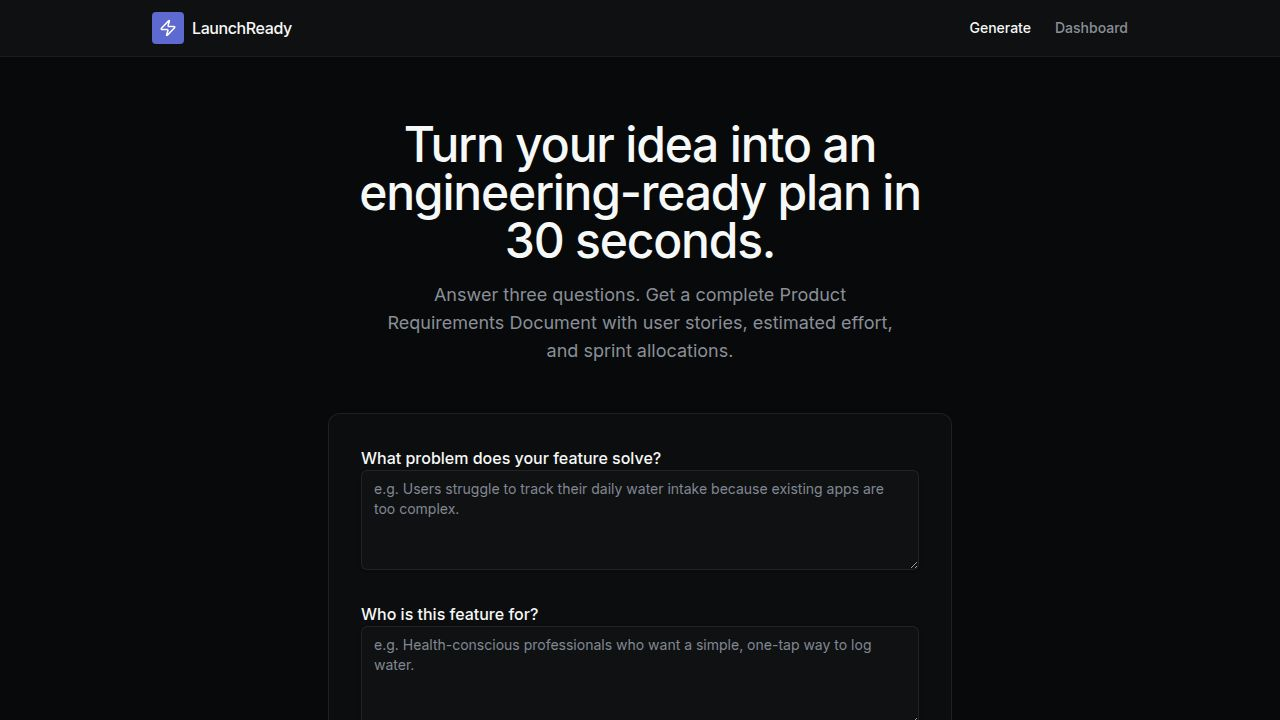
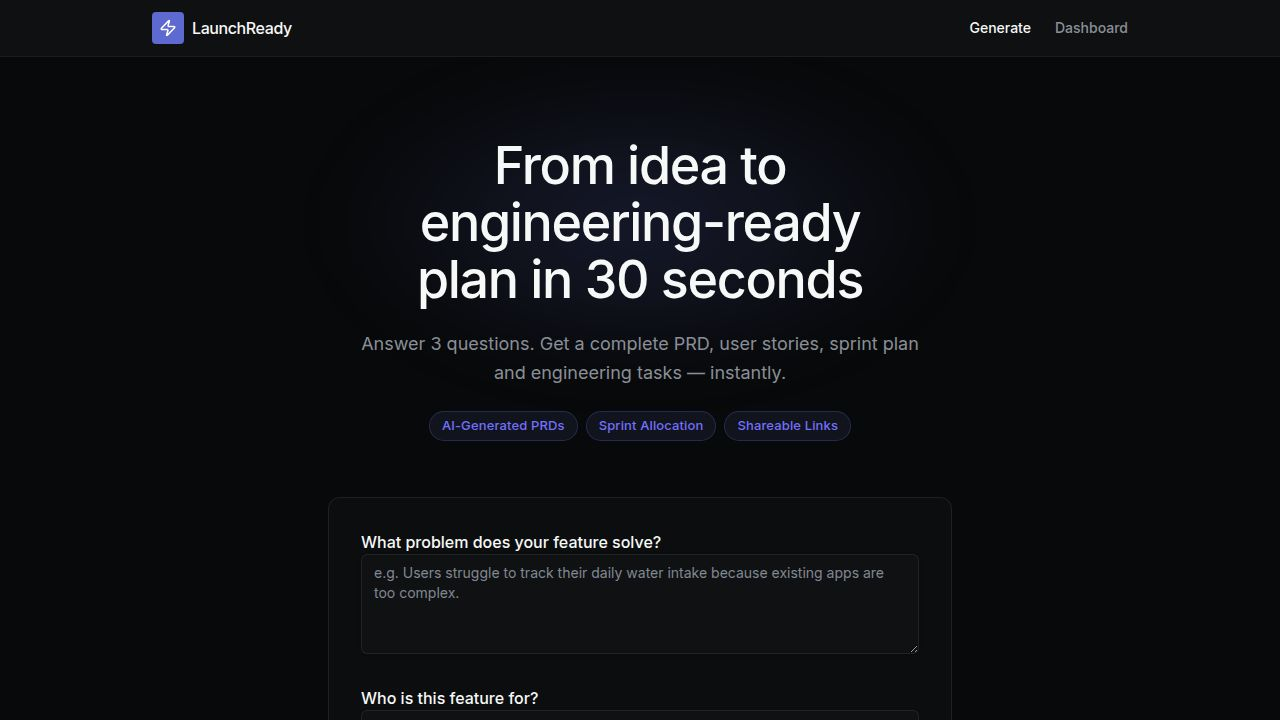
Add a user stories section to the PRD output page
Adds a new "User Stories" section to the PRD display component (`prd-content-display.tsx`), featuring collapsible story cards with IDs, titles, acceptance criteria checklists, and priority badges.

Replit-Commit-Author: Agent
Replit-Commit-Session-Id: 0954cd59-7536-4858-a228-b506f45e49d0
Replit-Commit-Checkpoint-Type: full_checkpoint
Replit-Commit-Event-Id: 13c76872-4d4e-406d-8cc6-f20ce23c8687
Replit-Commit-Screenshot-Url: https://storage.googleapis.com/screenshot-production-us-central1/3521b236-8601-42d6-86fa-be49e3823097/0954cd59-7536-4858-a228-b506f45e49d0/JQFTTOy
Replit-Helium-Checkpoint-Created: true

Changed region(s): [[0.2812, 0.1528, 0.7188, 0.55], [0.2812, 0.5806, 0.6875, 0.9778]]

diff --git a/artifacts/launchready/src/components/prd-content-display.tsx b/artifacts/launchready/src/components/prd-content-display.tsx
@@ -88,6 +88,84 @@ export function PrdContentDisplay({ prd, isShared = false, onUpdateTaskStatus }:
         </Card>
       </div>
 
+      <div className="space-y-4">
+        <h2 className="text-2xl font-medium text-[var(--text-primary)]">User Stories</h2>
+        <div className="space-y-2">
+          {content.userStories.map((story, i) => (
+            <Collapsible key={story.id} defaultOpen={false}>
+              <CollapsibleTrigger className="w-full flex items-center justify-between px-4 py-3 rounded-lg border border-[var(--border-default)] bg-[rgba(255,255,255,0.01)] hover:bg-[rgba(255,255,255,0.025)] transition-colors text-left [&[data-state=open]]:rounded-b-none [&[data-state=open]]:border-b-0 [&[data-state=open]>div>svg]:rotate-90">
+                <div className="flex items-center gap-3 min-w-0">
+                  <ChevronRight className="w-4 h-4 text-[var(--text-subtle)] shrink-0 transition-transform duration-200" />
+                  <span
+                    style={{
+                      fontSize: "0.7rem",
+                      fontFamily: "ui-monospace, SF Mono, Menlo, monospace",
+                      letterSpacing: "0.05em",
+                      fontWeight: 500,
+                      color: "var(--text-subtle)",
+                      textTransform: "uppercase",
+                      flexShrink: 0,
+                    }}
+                  >
+                    US-{i + 1}
+                  </span>
+                  <span className="text-sm font-medium text-[var(--text-primary)] truncate">{story.title}</span>
+                </div>
+                <Badge variant="outline" className={`border-0 shrink-0 ml-3 ${getPriorityColor(story.priority)}`}>
+                  {story.priority}
+                </Badge>
+              </CollapsibleTrigger>
+              <CollapsibleContent className="border border-t-0 border-[var(--border-default)] rounded-b-lg bg-[rgba(255,255,255,0.01)] overflow-hidden">
+                <div className="px-5 py-4 space-y-4">
+                  <p className="text-sm leading-relaxed" style={{ color: "var(--text-secondary)" }}>
+                    As a <span style={{ color: "var(--text-primary)", fontWeight: 500 }}>{story.asA}</span>,
+                    {" "}I want <span style={{ color: "var(--text-primary)", fontWeight: 500 }}>{story.iWant}</span>,
+                    {" "}so that <span style={{ color: "var(--text-primary)", fontWeight: 500 }}>{story.soThat}</span>.
+                  </p>
+                  {story.acceptanceCriteria && story.acceptanceCriteria.length > 0 && (
+                    <div>
+                      <p
+                        style={{
+                          fontSize: "0.7rem",
+                          textTransform: "uppercase",
+                          letterSpacing: "0.07em",
+                          fontWeight: 600,
+                          color: "var(--text-subtle)",
+                          marginBottom: "8px",
+                        }}
+                      >
+                        Acceptance Criteria
+                      </p>
+                      <ul className="space-y-1.5">
+                        {story.acceptanceCriteria.map((criterion, j) => (
+                          <li key={j} className="flex items-start gap-2.5 text-sm" style={{ color: "var(--text-secondary)" }}>
+                            <span
+                              aria-hidden="true"
+                              style={{
+                                display: "flex",
+                                alignItems: "center",
+                                justifyContent: "center",
+                                width: "16px",
+                                height: "16px",
+                                borderRadius: "3px",
+                                border: "1.5px solid rgba(255,255,255,0.15)",
+                                flexShrink: 0,
+                                marginTop: "2px",
+                              }}
+                            />
+                            <span>{criterion}</span>
+                          </li>
+                        ))}
+                      </ul>
+                    </div>
+                  )}
+                </div>
+              </CollapsibleContent>
+            </Collapsible>
+          ))}
+        </div>
+      </div>
+
       <div className="space-y-6">
         <h2 className="text-2xl font-medium text-[var(--text-primary)]">Sprint Plan</h2>
         